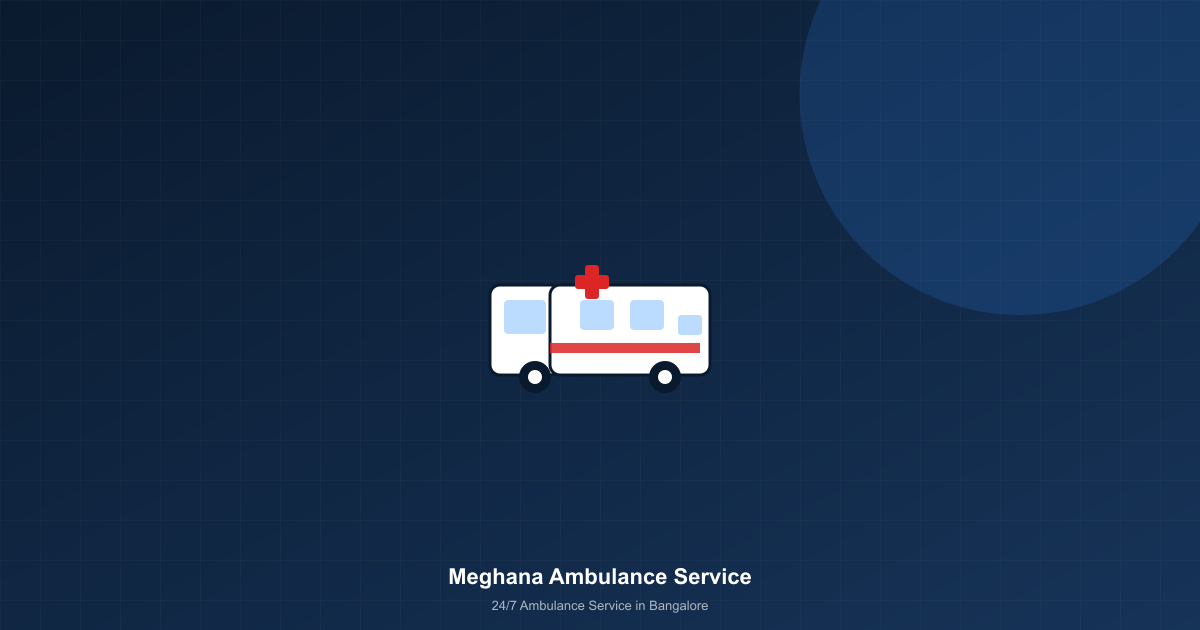
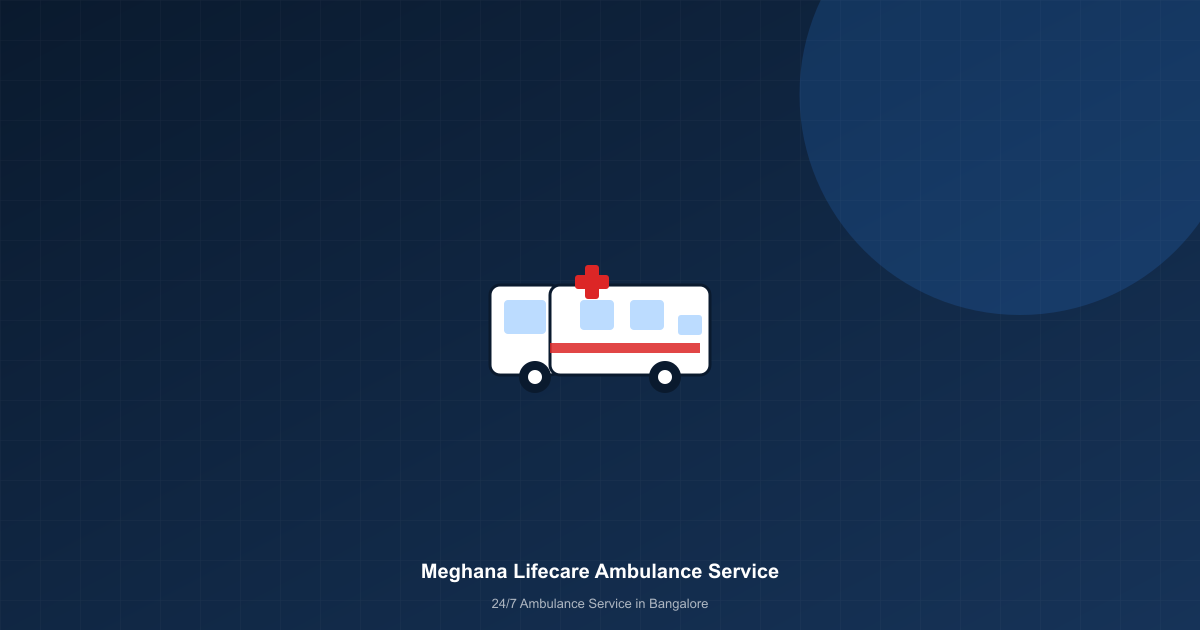
Correct business name to Meghana Lifecare Ambulance Service
Updates the central business.name/legalName config plus every hardcoded
occurrence across metadata, JSON-LD schema, alt text, aria-labels, FAQ
copy, and the WhatsApp default message. Also regenerates the Open Graph
share image, whose old name was rendered as pixels (not templated text,
so the earlier find-and-replace couldn't touch it) and fixes one
occurrence in Testimonials.tsx that a straight substring replace missed
because "Meghana" and "Ambulance Service" were split across a JSX line
wrap (React joins them into one phrase at render time).

Also fixes two unrelated pre-existing unescaped-apostrophe lint errors
in WhyChooseUs.tsx that surfaced while editing the same file.

Changed region(s): [[0.3392, 0.8746, 0.6475, 0.9651]]

diff --git a/src/lib/business.ts b/src/lib/business.ts
@@ -1,5 +1,5 @@
 // ---------------------------------------------------------------------------
-// Central business configuration for Meghana Ambulance Service.
+// Central business configuration for Meghana Lifecare Ambulance Service.
 //
 // Every piece of business information used across the site (phone numbers,
 // service list, service areas, WhatsApp number, etc.) lives here so the
@@ -45,8 +45,8 @@ export type ServiceIconName =
   | "patient";
 
 export const business = {
-  name: "Meghana Ambulance Service",
-  legalName: "Meghana Ambulance Service",
+  name: "Meghana Lifecare Ambulance Service",
+  legalName: "Meghana Lifecare Ambulance Service",
   tagline: "24/7 Ambulance Service in Bangalore",
   shortDescription:
     "Reliable ambulance transportation with experienced drivers and trained staff support for emergency, hospital transfer and long-distance patient journeys.",
@@ -64,7 +64,7 @@ export const business = {
   whatsappNumber: "8496840543",
   whatsappNumberIntl: "918496840543",
   whatsappDefaultMessage:
-    "Hello Meghana Ambulance Service, I need ambulance assistance.",
+    "Hello Meghana Lifecare Ambulance Service, I need ambulance assistance.",
 
   email: "", // PLACEHOLDER - add once client confirms a business email
 
@@ -354,7 +354,7 @@ export const services: Service[] = [
     ],
     faqs: [
       {
-        question: "How far can Meghana Ambulance Service travel from Bangalore?",
+        question: "How far can Meghana Lifecare Ambulance Service travel from Bangalore?",
         answer:
           "We support journeys across Karnataka and other parts of India. Share your destination when you call so the route, duration, and requirements can be discussed and confirmed before departure.",
       },
@@ -449,7 +449,7 @@ export const faqs: ServiceFaq[] = [
   {
     question: "How can I book an ambulance in Bangalore?",
     answer:
-      "Call Meghana Ambulance Service directly at " +
+      "Call Meghana Lifecare Ambulance Service directly at " +
       business.phoneDisplay +
       " or " +
       business.secondaryPhoneDisplay +
@@ -463,14 +463,14 @@ export const faqs: ServiceFaq[] = [
       " and share your exact location with a nearby landmark — our team dispatches based on where you are, so you don't need to search for the nearest ambulance yourself. We cover 20 areas across Bangalore and are reachable 24/7.",
   },
   {
-    question: "Which areas in Bangalore does Meghana Ambulance Service cover?",
+    question: "Which areas in Bangalore does Meghana Lifecare Ambulance Service cover?",
     answer:
       "We cover 20 areas across Bangalore: RR Nagar, Vijayanagar, Nagarbhavi, Kengeri, Rajajinagar, Yeshwanthpur, Peenya, RT Nagar, Hebbal, Yelahanka, Jayanagar, JP Nagar, BTM Layout, Bannerghatta Road, HSR Layout, Electronic City, Koramangala, Indiranagar, Marathahalli, and Whitefield. Call us to confirm coverage for your exact pickup location.",
   },
   {
     question: "Is ambulance service available in RR Nagar / Rajarajeshwari Nagar?",
     answer:
-      "Yes, Meghana Ambulance Service covers Rajarajeshwari Nagar (RR Nagar) and the surrounding West Bangalore areas including Vijayanagar, Nagarbhavi, and Kengeri. Call " +
+      "Yes, Meghana Lifecare Ambulance Service covers Rajarajeshwari Nagar (RR Nagar) and the surrounding West Bangalore areas including Vijayanagar, Nagarbhavi, and Kengeri. Call " +
       business.phoneDisplay +
       " for immediate assistance.",
   },
@@ -486,7 +486,7 @@ export const faqs: ServiceFaq[] = [
   {
     question: "Is ambulance service available in Koramangala, HSR Layout, and Electronic City?",
     answer:
-      "Yes, Meghana Ambulance Service covers Koramangala, HSR Layout, Electronic City, and nearby South-East Bangalore areas. Our team is reachable 24/7 at " +
+      "Yes, Meghana Lifecare Ambulance Service covers Koramangala, HSR Layout, Electronic City, and nearby South-East Bangalore areas. Our team is reachable 24/7 at " +
       business.phoneDisplay +
       ".",
   },
@@ -513,21 +513,21 @@ export const faqs: ServiceFaq[] = [
       "NICU, PICU, and CCU ambulance support are available subject to vehicle and equipment availability. Call our team to discuss your specific requirement — neonatal, pediatric critical-care, or cardiac-care — before booking.",
   },
   {
-    question: "Is Meghana Ambulance Service available 24 hours a day?",
+    question: "Is Meghana Lifecare Ambulance Service available 24 hours a day?",
     answer:
-      "Yes, Meghana Ambulance Service is available 24 hours a day, 7 days a week, including weekends and public holidays. Call " +
+      "Yes, Meghana Lifecare Ambulance Service is available 24 hours a day, 7 days a week, including weekends and public holidays. Call " +
       business.phoneDisplay +
       " or " +
       business.secondaryPhoneDisplay +
       " at any time.",
   },
   {
-    question: "Can hospitals and clinics partner with Meghana Ambulance Service?",
+    question: "Can hospitals and clinics partner with Meghana Lifecare Ambulance Service?",
     answer:
       "Yes. We work with hospitals, nursing homes, clinics, diagnostic centres, and other healthcare organizations in Bangalore on patient transportation and ambulance coordination. Use the Hospital Partnerships form or call our team to start a conversation.",
   },
   {
-    question: "How do I contact Meghana Ambulance Service?",
+    question: "How do I contact Meghana Lifecare Ambulance Service?",
     answer:
       "Call " +
       business.phoneDisplay +

diff --git a/src/app/coverage/page.tsx b/src/app/coverage/page.tsx
@@ -6,7 +6,7 @@ import { business, serviceAreas } from "@/lib/business";
 export const metadata: Metadata = {
   title: "Ambulance Coverage Bangalore",
   description:
-    "Meghana Ambulance Service covers 20 areas across Bangalore — RR Nagar, Jayanagar, Koramangala, Whitefield & more. 24/7 emergency, ICU & long-distance ambulance.",
+    "Meghana Lifecare Ambulance Service covers 20 areas across Bangalore — RR Nagar, Jayanagar, Koramangala, Whitefield & more. 24/7 emergency, ICU & long-distance ambulance.",
   keywords: [
     "ambulance coverage Bangalore",
     "ambulance service areas Bangalore",
@@ -17,7 +17,7 @@ export const metadata: Metadata = {
   alternates: { canonical: "/coverage" },
   openGraph: {
     title: "Ambulance Service Coverage — 20 Areas Across Bangalore",
-    description: `Meghana Ambulance Service covers ${serviceAreas.length} areas across Bangalore including ${serviceAreas.slice(0, 5).map((a) => a.name).join(", ")} and more. Available 24/7.`,
+    description: `Meghana Lifecare Ambulance Service covers ${serviceAreas.length} areas across Bangalore including ${serviceAreas.slice(0, 5).map((a) => a.name).join(", ")} and more. Available 24/7.`,
   },
 };
 
@@ -25,7 +25,7 @@ const coverageJsonLd = {
   "@context": "https://schema.org",
   "@type": "WebPage",
   name: "Ambulance Service Coverage Areas in Bangalore",
-  description: `Meghana Ambulance Service covers ${serviceAreas.length} areas across Bangalore. Available 24 hours a day, 7 days a week.`,
+  description: `Meghana Lifecare Ambulance Service covers ${serviceAreas.length} areas across Bangalore. Available 24 hours a day, 7 days a week.`,
   url: `${business.siteUrl}/coverage`,
   about: {
     "@type": "MedicalBusiness",

diff --git a/src/lib/gallery.ts b/src/lib/gallery.ts
@@ -7,27 +7,27 @@ export interface GalleryImage {
 export const galleryImages: GalleryImage[] = [
   {
     src: "/images/gallery/ambulance-front-view-bangalore.jpg",
-    alt: "Meghana Ambulance Service ambulance front view — Bangalore 24/7 emergency ambulance",
+    alt: "Meghana Lifecare Ambulance Service ambulance front view — Bangalore 24/7 emergency ambulance",
     caption: "Front View",
   },
   {
     src: "/images/gallery/ambulance-rear-view-bangalore.jpg",
-    alt: "Meghana Ambulance Service ambulance rear view — fully equipped patient transport",
+    alt: "Meghana Lifecare Ambulance Service ambulance rear view — fully equipped patient transport",
     caption: "Rear View",
   },
   {
     src: "/images/gallery/ambulance-side-view-bangalore.jpg",
-    alt: "Meghana Ambulance Service ambulance side view — Bangalore ambulance service",
+    alt: "Meghana Lifecare Ambulance Service ambulance side view — Bangalore ambulance service",
     caption: "Side View",
   },
   {
     src: "/images/gallery/ambulance-interior-medical-equipment.jpg",
-    alt: "Meghana Ambulance Service ambulance interior — medical equipment and patient bay",
+    alt: "Meghana Lifecare Ambulance Service ambulance interior — medical equipment and patient bay",
     caption: "Interior & Equipment",
   },
   {
     src: "/images/gallery/ambulance-hospital-transfer-bangalore.jpg",
-    alt: "Meghana Ambulance Service ambulance at hospital — hospital transfer Bangalore",
+    alt: "Meghana Lifecare Ambulance Service ambulance at hospital — hospital transfer Bangalore",
     caption: "At Hospital",
   },
 ];

diff --git a/src/components/Hero.tsx b/src/components/Hero.tsx
@@ -9,7 +9,7 @@ const slides = [
   {
     src: "/images/hero/hero-ambulance-india.jpg",
     srcMobile: "/images/hero/hero-ambulance-india-mobile.jpg",
-    alt: "Indian advanced life support ambulance on road — Meghana Ambulance Service Bangalore",
+    alt: "Indian advanced life support ambulance on road — Meghana Lifecare Ambulance Service Bangalore",
     headline: "24/7 Ambulance Service in Bangalore",
     sub: "Experienced drivers & staff nurse support — available any time, day or night.",
     position: "object-center",
@@ -17,7 +17,7 @@ const slides = [
   {
     src: "/images/hero/hero-city-road.jpg",
     srcMobile: "/images/hero/hero-city-road-mobile.jpg",
-    alt: "Ambulance responding on city highway — Meghana Ambulance Service Bangalore",
+    alt: "Ambulance responding on city highway — Meghana Lifecare Ambulance Service Bangalore",
     headline: "Emergency & ICU Ambulance, Always Ready",
     sub: "Hospital transfers, long-distance journeys & emergency response across 20 areas of Bangalore.",
     position: "object-center",
@@ -25,7 +25,7 @@ const slides = [
   {
     src: "/images/hero/hero-ambulance-fleet.jpg",
     srcMobile: "/images/hero/hero-ambulance-fleet-mobile.jpg",
-    alt: "Ambulance fleet with Star of Life — Meghana Ambulance Service Bangalore",
+    alt: "Ambulance fleet with Star of Life — Meghana Lifecare Ambulance Service Bangalore",
     headline: "Hospital Transfers & Patient Transport",
     sub: "Hospital-to-hospital, hospital-to-home, and long-distance journeys across Karnataka & India.",
     position: "object-center",

diff --git a/src/components/AboutSection.tsx b/src/components/AboutSection.tsx
@@ -17,7 +17,7 @@ export default function AboutSection() {
           <div className="relative aspect-[5/4] overflow-hidden rounded-2xl border border-black/5 bg-navy-900 shadow-sm">
             <Image
               src="/images/gallery/ambulance-hospital-transfer-bangalore.jpg"
-              alt="Meghana Ambulance Service ambulance at hospital — hospital transfer Bangalore"
+              alt="Meghana Lifecare Ambulance Service ambulance at hospital — hospital transfer Bangalore"
               fill
               sizes="(min-width: 1024px) 40vw, 90vw"
               className="object-cover"
@@ -37,7 +37,7 @@ export default function AboutSection() {
             Built for the Moments That Can&apos;t Wait
           </h2>
           <p className="mt-4 leading-relaxed text-ink-700">
-            Meghana Ambulance Service is a 24/7 ambulance service based in
+            Meghana Lifecare Ambulance Service is a 24/7 ambulance service based in
             Bangalore, providing emergency response, ICU/NICU/PICU/CCU
             ambulance transport, hospital transfers, and long-distance
             patient journeys across India. An ambulance call rarely comes at

diff --git a/src/components/Testimonials.tsx b/src/components/Testimonials.tsx
@@ -118,7 +118,7 @@ export default function Testimonials() {
         reviewBody: t.text,
         itemReviewed: {
           "@type": "MedicalBusiness",
-          name: "Meghana Ambulance Service",
+          name: "Meghana Lifecare Ambulance Service",
         },
       },
     })),
@@ -139,8 +139,8 @@ export default function Testimonials() {
             Trusted by Families Across Bangalore
           </h2>
           <p className="mt-3 text-ink-500">
-            Real experiences from patients and families who relied on Meghana
-            Ambulance Service during critical moments.
+            Real experiences from patients and families who relied on
+            Meghana Lifecare Ambulance Service during critical moments.
           </p>
           <a
             href={business.googleReviewUrl}

diff --git a/src/app/services/page.tsx b/src/app/services/page.tsx
@@ -8,7 +8,7 @@ import { AmbulanceIcon } from "@/components/icons";
 export const metadata: Metadata = {
   title: "Ambulance Services in Bangalore",
   description:
-    "Emergency, ICU, NICU, PICU, CCU ambulance, hospital transfer, long-distance and patient transportation services from Meghana Ambulance Service, Bangalore.",
+    "Emergency, ICU, NICU, PICU, CCU ambulance, hospital transfer, long-distance and patient transportation services from Meghana Lifecare Ambulance Service, Bangalore.",
   keywords: [
     "ambulance services Bangalore",
     "types of ambulance service Bangalore",

diff --git a/src/app/gallery/page.tsx b/src/app/gallery/page.tsx
@@ -5,7 +5,7 @@ import ContactTeaser from "@/components/ContactTeaser";
 export const metadata: Metadata = {
   title: "Ambulance Gallery",
   description:
-    "See the Meghana Ambulance Service fleet up close — front, side, rear and interior views. 24/7 ambulance service across Bangalore, available for booking now.",
+    "See the Meghana Lifecare Ambulance Service fleet up close — front, side, rear and interior views. 24/7 ambulance service across Bangalore, available for booking now.",
   keywords: [
     "ambulance photos Bangalore",
     "ambulance fleet Bangalore",

diff --git a/src/components/WhyChooseUs.tsx b/src/components/WhyChooseUs.tsx
@@ -55,8 +55,8 @@ export default function WhyChooseUs() {
             What You Get With Every Ambulance We Send
           </h2>
           <p className="mt-3 text-white/70">
-            No surprises when it matters most — here's exactly what's behind
-            every call to Meghana Ambulance Service.
+            No surprises when it matters most — here&apos;s exactly what&apos;s behind
+            every call to Meghana Lifecare Ambulance Service.
           </p>
         </div>
         <div className="mt-10 grid grid-cols-1 gap-5 sm:grid-cols-2 lg:grid-cols-3">

diff --git a/src/app/hospital-partnerships/page.tsx b/src/app/hospital-partnerships/page.tsx
@@ -5,7 +5,7 @@ import { business } from "@/lib/business";
 export const metadata: Metadata = {
   title: "Hospital Ambulance Partnerships",
   description:
-    "Meghana Ambulance Service partners with hospitals, nursing homes & clinics in Bangalore for patient transportation and ambulance coordination.",
+    "Meghana Lifecare Ambulance Service partners with hospitals, nursing homes & clinics in Bangalore for patient transportation and ambulance coordination.",
   keywords: [
     "ambulance service for hospitals Bangalore",
     "hospital ambulance tie-up Bangalore",

diff --git a/src/components/MobileEmergencyBar.tsx b/src/components/MobileEmergencyBar.tsx
@@ -29,7 +29,7 @@ export default function MobileEmergencyBar() {
         target="_blank"
         rel="noopener noreferrer"
         className="flex flex-col items-center justify-center gap-0.5 bg-[#25D366] text-white active:brightness-95"
-        aria-label="Message Meghana Ambulance Service on WhatsApp"
+        aria-label="Message Meghana Lifecare Ambulance Service on WhatsApp"
       >
         <WhatsAppIcon className="h-5 w-5" />
         <span className="text-[11px] font-bold uppercase tracking-wide">WhatsApp</span>

diff --git a/src/components/WhatsAppFloatButton.tsx b/src/components/WhatsAppFloatButton.tsx
@@ -15,7 +15,7 @@ export default function WhatsAppFloatButton() {
       target="_blank"
       rel="noopener noreferrer"
       className="fixed bottom-6 right-6 z-40 hidden h-14 w-14 items-center justify-center rounded-full bg-[#25D366] text-white shadow-lg shadow-black/20 transition-transform hover:scale-105 md:flex"
-      aria-label="Chat with Meghana Ambulance Service on WhatsApp"
+      aria-label="Chat with Meghana Lifecare Ambulance Service on WhatsApp"
     >
       <WhatsAppIcon className="h-7 w-7" />
     </a>
